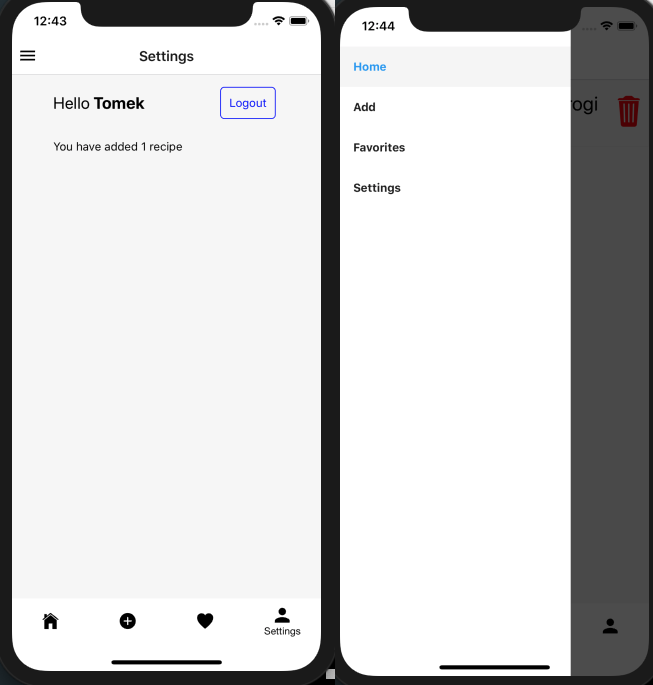
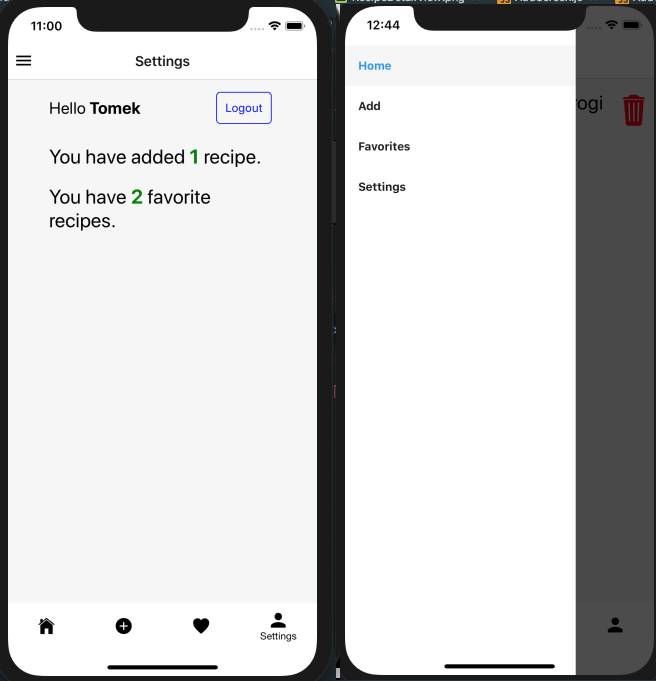
on settings screen user can see how many recipes he favorites and added

diff --git a/components/LoggedView.js b/components/LoggedView.js
@@ -4,39 +4,44 @@ import DefaultButton from "./UI/DefaultButton";
 import {connect} from 'react-redux';
 
 class LoggedView extends React.Component {
-    constructor(props) {
-        super(props);
-        this.state = {
-            addedRecipes: 0,
-            favoriteRecipes: 0
-        };
 
-    }
+    // calculateAddedRecipes = () => {
+    //     let counter = 0;
+    //
+    //     console.log(this.props.recipes, 'recipes')
+    //
+    //     this.props.recipes.map((el) => {
+    //         console.log(el.author, this.props.userName);
+    //         if (el.author === this.props.userName) {
+    //             counter++;
+    //         }
+    //     });
+    //
+    //     this.setState({
+    //         addedRecipes: counter
+    //     })
+    // };
 
-    calculateAddedRecipes = () => {
-        let counter = 0;
+    // componentDidMount(){
+    //     this.calculateAddedRecipes();
+    // }
 
-        console.log(this.props.recipes, 'recipes')
-
+    render() {
+        let added = 0;
+        let favorites = 0;
         this.props.recipes.map((el) => {
-            console.log(el.author, this.props.userName);
             if (el.author === this.props.userName) {
-                counter++;
+                added++;
             }
         });
 
-        this.setState({
-            addedRecipes: counter
-        })
-    };
+        this.props.users.map((el) => {
+            if(el.name === this.props.userName){
+                favorites = el.favorites.length;
+            }
 
-    componentDidMount(){
-        this.calculateAddedRecipes();
-    }
+        });
 
-
-
-    render() {
 
 
         return (
@@ -49,8 +54,9 @@ class LoggedView extends React.Component {
                     >Logout</DefaultButton>
                 </View>
 
-                <View style={styles.container}>
-                    <Text>You have added {this.state.addedRecipes} recipe</Text>
+                <View>
+                    <Text style={styles.info}>You have added <Text style={{fontWeight: 'bold',color:'green'}}>{added}</Text> recipe.</Text>
+                    <Text style={styles.info}>You have <Text style={{fontWeight: 'bold',color:'green'}}>{favorites}</Text> favorite recipes.</Text>
                 </View>
 
             </View>
@@ -77,4 +83,9 @@ const styles = StyleSheet.create({
         justifyContent: 'space-between',
         alignItems: 'center'
     },
+    info: {
+        fontSize: 24,
+        marginHorizontal: 50,
+        marginVertical: 10
+    }
 });

diff --git a/screens/SettingsScreen.js b/screens/SettingsScreen.js
@@ -44,7 +44,6 @@ class SettingsScreen extends React.Component {
         if(this.state.logged){
             return(
                     <LoggedView handleLogout={this.handleLogout}/>
-
             )
         }else {
             return (
